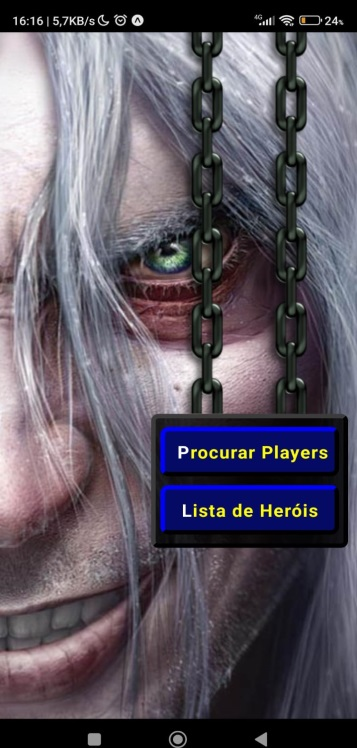
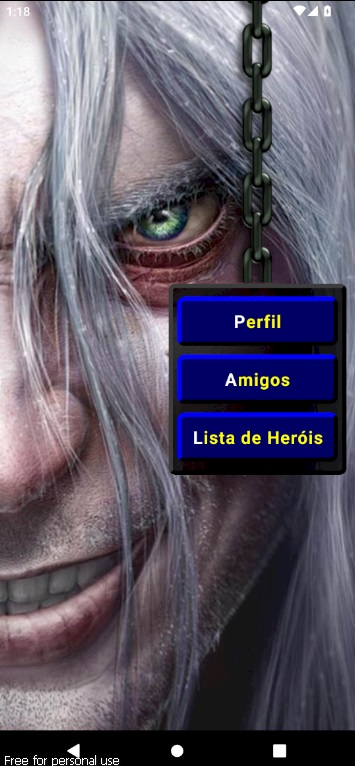
feat: editando o README

diff --git a/README.md b/README.md
@@ -11,7 +11,7 @@ Bem-vindo à minha **API do Dota 2**! Este projeto foi criado para conseguir bus
 - Ver últimas 20 partidas
 - Lista dos Heróis
 
-## Tecnologias Utilizadas**:
+## ⚙ Tecnologias Utilizadas:
   - 🚀 TypeScript
   - ⚛ React Native
 
@@ -20,7 +20,7 @@ Bem-vindo à minha **API do Dota 2**! Este projeto foi criado para conseguir bus
 <!-- ![Heróis](assets/GifHeroes.gif) -->
 ![Home](assets/home.jpg)
 ![Detalhe Jogador](assets/player.jpg)
-![Carregando Dados](assets/carregando.jpg)
+![Lista de Amigos](assets/amigos.jpg)
 ![Detalhe Partida](assets/matchDetails.jpg)
 ![Heróis](assets/herois.jpg)
 ![Detalhe Heróis](assets/heroDetails.jpg)
